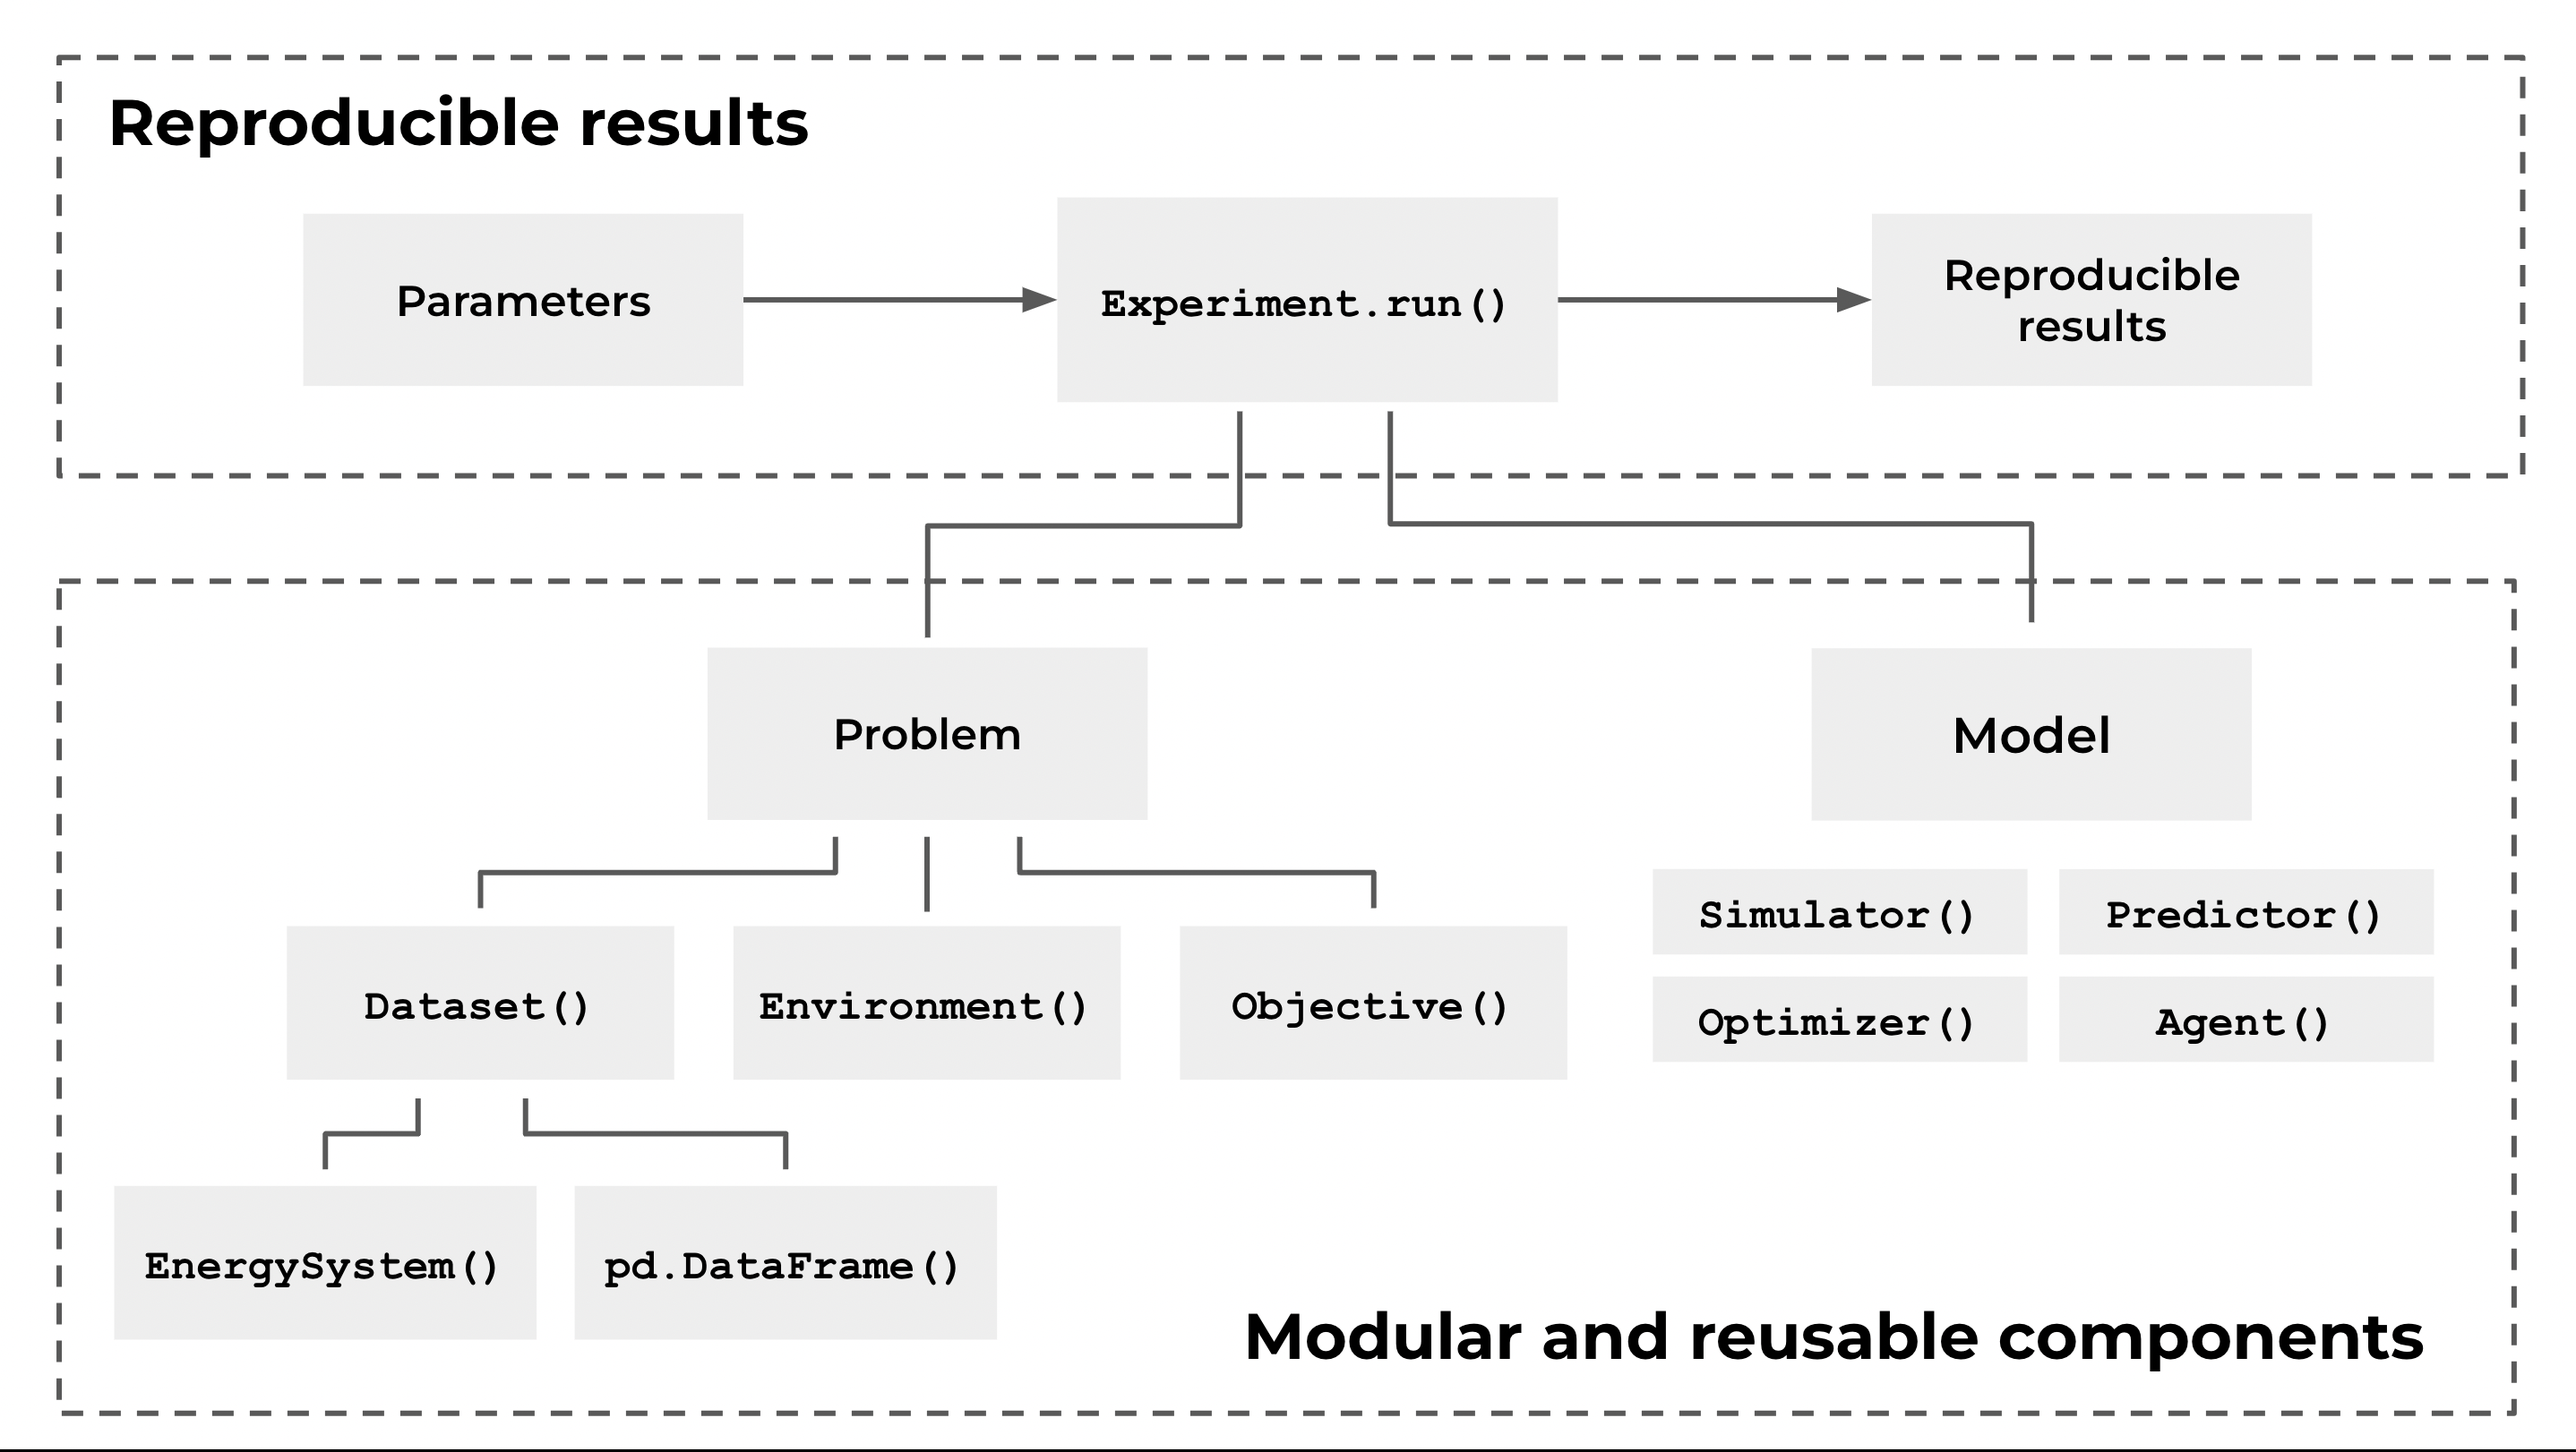
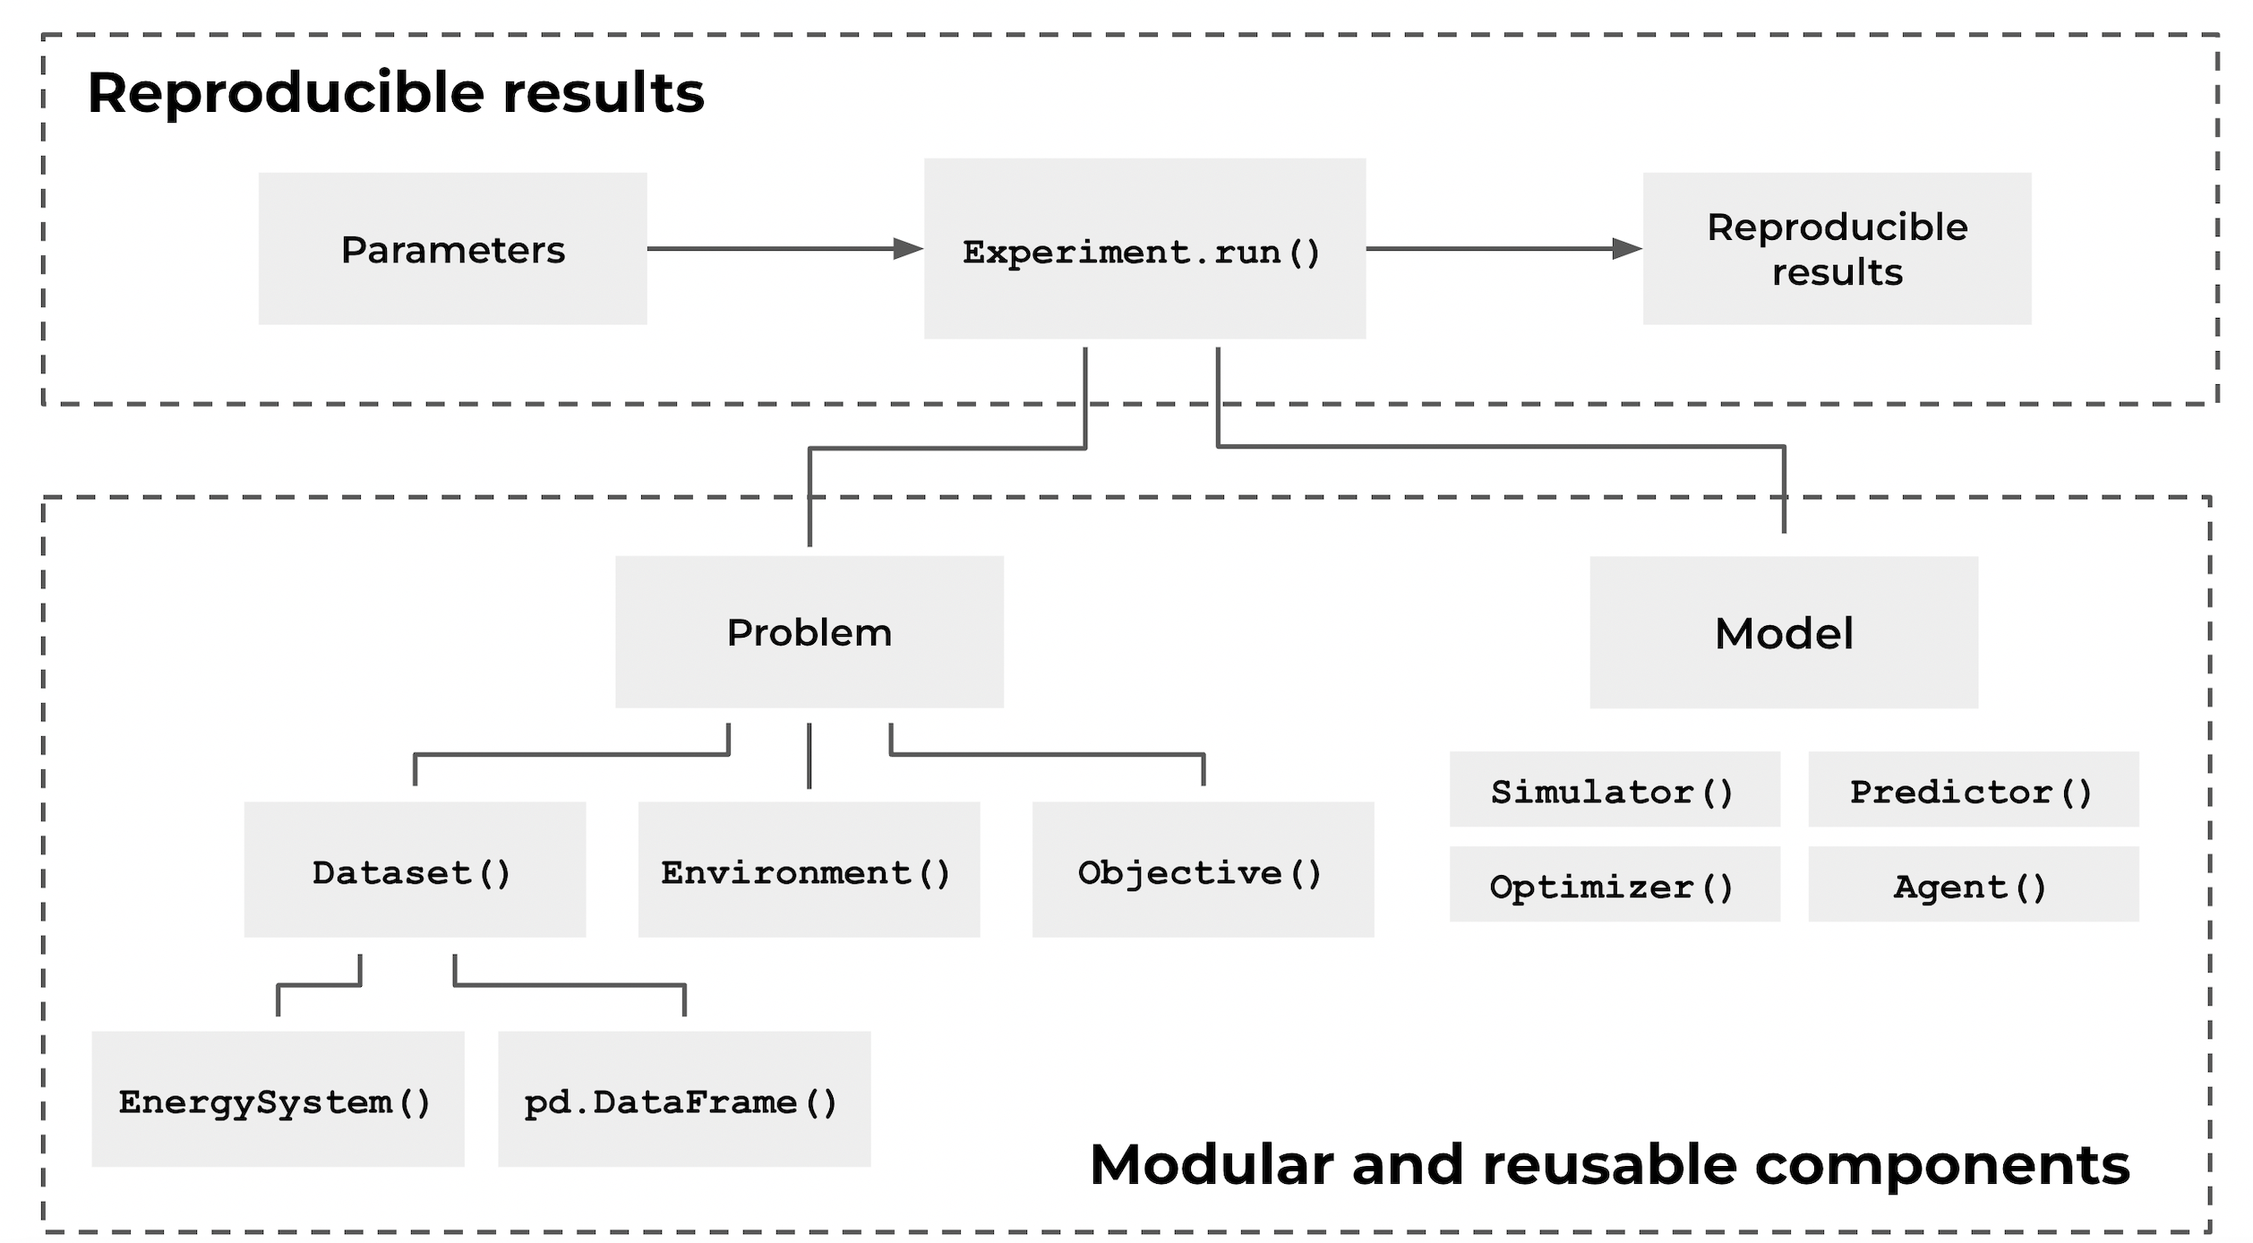
update readme

diff --git a/README.md b/README.md
@@ -11,7 +11,7 @@
 [![Join us on Slack](https://img.shields.io/badge/Join%20us%20on%20Slack-%2362BEAF?style=flat&logo=slack&logoColor=white)](https://join.slack.com/t/rebase-community/shared_invite/zt-1dtd0tdo6-sXuCEy~zPnvJw4uUe~tKeA) 
 [![GitHub Repo stars](https://img.shields.io/github/stars/rebase-energy/enerflow?style=social)](https://github.com/rebase-energy/enerflow)
 
-**enerflow** is an open-source Python framework that enables energy data scientists and modellers write modular and reproducible energy models to solve sequential decision problems. It is based on both OpenAI Gym (now [Gymnasium](https://github.com/Farama-Foundation/Gymnasium)) and [Warran Powell's sequential decision framework](https://castle.princeton.edu/rlso/). **enerflow** lets you: 
+**enerflow** is an open-source Python framework that enables energy data scientists and modellers to write modular and reproducible energy models that solves sequential decision problems. It is based on both OpenAI Gym (now [Gymnasium](https://github.com/Farama-Foundation/Gymnasium)) and [Warran Powell's sequential decision framework](https://castle.princeton.edu/rlso/). **enerflow** lets you: 
 
 * 🛤 Structure your code as modular and reusable components and adopt the "model first, then solve"-mantra;
 * 🌱 Forumate your problems with datasets, environments and objectives;
@@ -43,16 +43,18 @@ $$
 \end{equation*}
 $$
 
-## Modules and Concepts
-**enerflow** consists of a set of modules and concepts that enables to create modular and reusable energy models. One of the main dependencies is [EnergyDataModel](https://github.com/rebase-energy/EnergyDataModel) that provides functionality to represent energy systems. The table below gives a summary of the available modules and concepts.
+## Modules and Components
+**enerflow** consists of a set of components that serve as building blocks to create modular and reusable energy models. One of the main dependencies is [EnergyDataModel](https://github.com/rebase-energy/EnergyDataModel) that provides functionality to represent energy systems. The table below gives a summary of the available modules and concepts.
 
-| Module         | Concepts     |
+| Module         | Components     |
 | :----          | :----            |
-| 🔋&nbsp;`energysystem` | All energy assets and concepts defined by [EnergyDataModel](https://github.com/rebase-energy/EnergyDataModel) | 
+| 🔋&nbsp;`energysystem` | All energy asset and concept components defined by [EnergyDataModel](https://github.com/rebase-energy/EnergyDataModel) | 
 | 📦&nbsp;`spaces` | [`BaseSpace`](), [`InputSpace`](), [`OutputSpace`]() [`StateSpace`]() [`ActionSpace`]() | 
 | 🧩&nbsp;`problems` | [`Dataset`](), [`Environment`](), [`Objective`]() | 
 | 🧩&nbsp;`models` | [`Simulator`](), [`Predictor`](), [`Optimizer`](), [`Agent`]() | 
 | ➡&nbsp;`experiment` | [`Experiment`]()| 
+
+Below is a diagram of the components' relation to each other and how they together enable creation of reproducible results from energy models. 
 
 ![enerflow Framework Structure](assets/enerflow-framework-structure.png)
 
